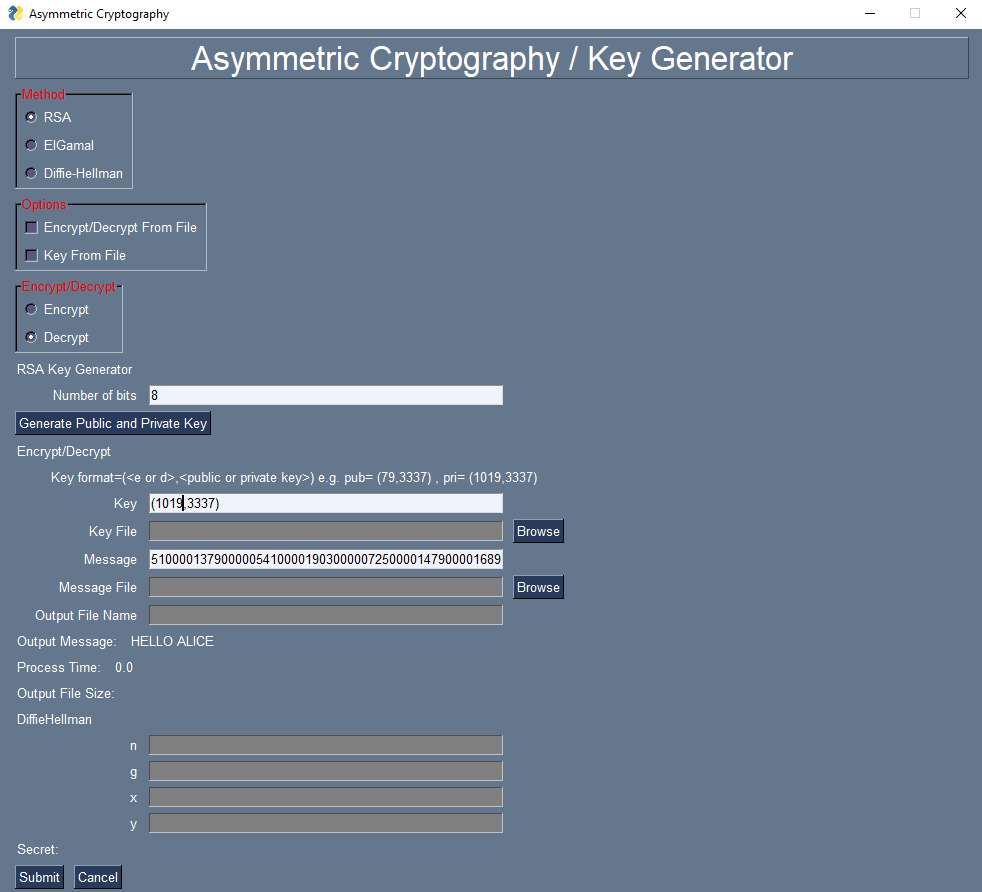
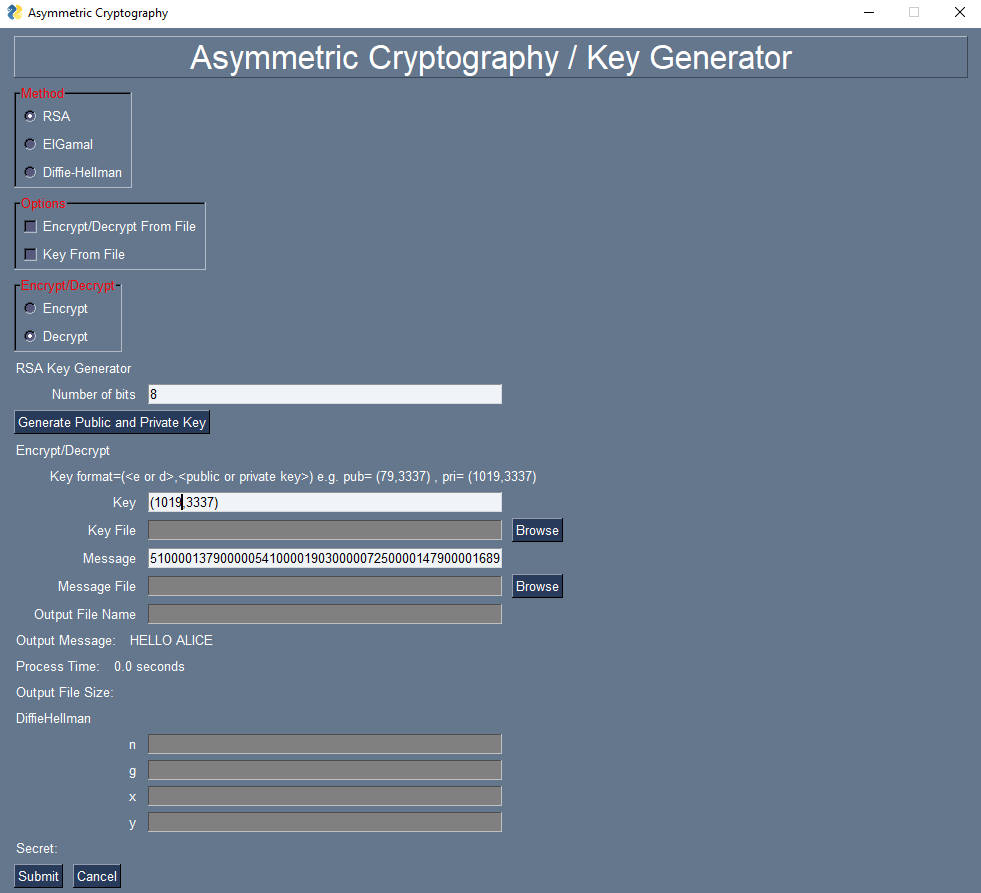
added seconds to process time display, update screenshot RSA

diff --git a/GUI.py b/GUI.py
@@ -116,7 +116,7 @@ while True:
                 end_time = time.time()
                 process_time = end_time - start_time
                 window["output_message"].update(ciphertext)
-                window["process_time"].update(process_time)
+                window["process_time"].update(str(process_time)+" seconds")
                 print(ciphertext)
                 if values["EncryptDecryptFromFile"]:
                     fname = values["output_file"]
@@ -139,7 +139,7 @@ while True:
                 end_time = time.time()
                 process_time = end_time - start_time
                 window["output_message"].update(plaintext)
-                window["process_time"].update(process_time)
+                window["process_time"].update(str(process_time)+" seconds")
                 if values["EncryptDecryptFromFile"]:
                     fname = values["output_file"]
                     save_text_to_file(plaintext,fname)
